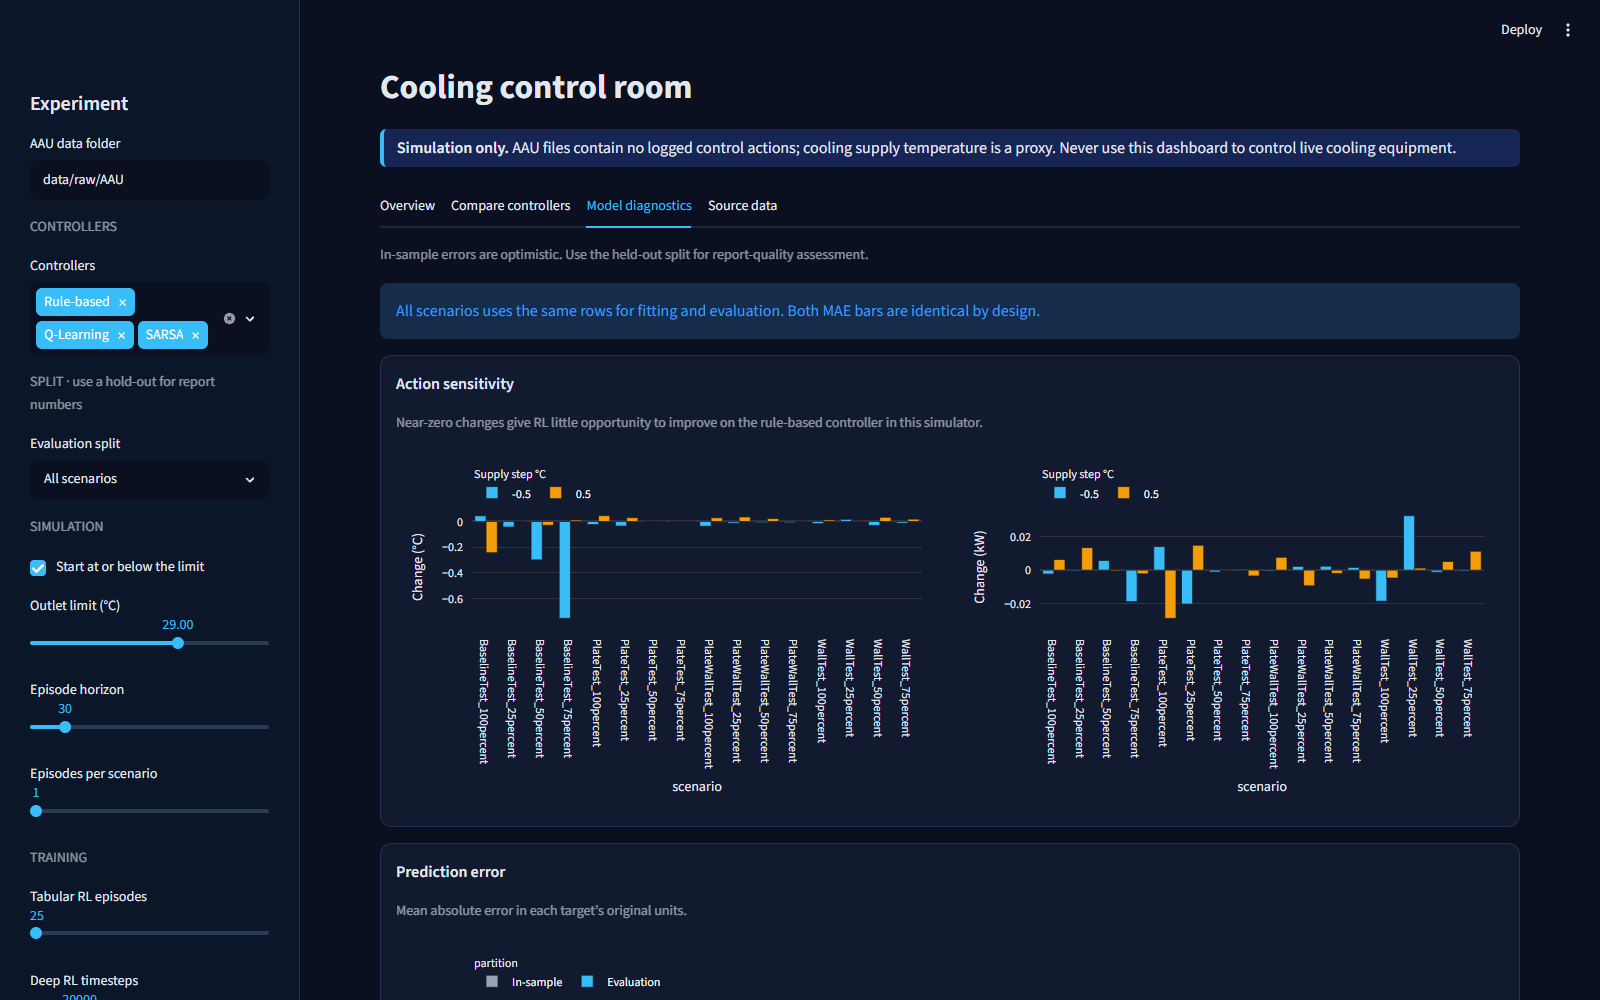
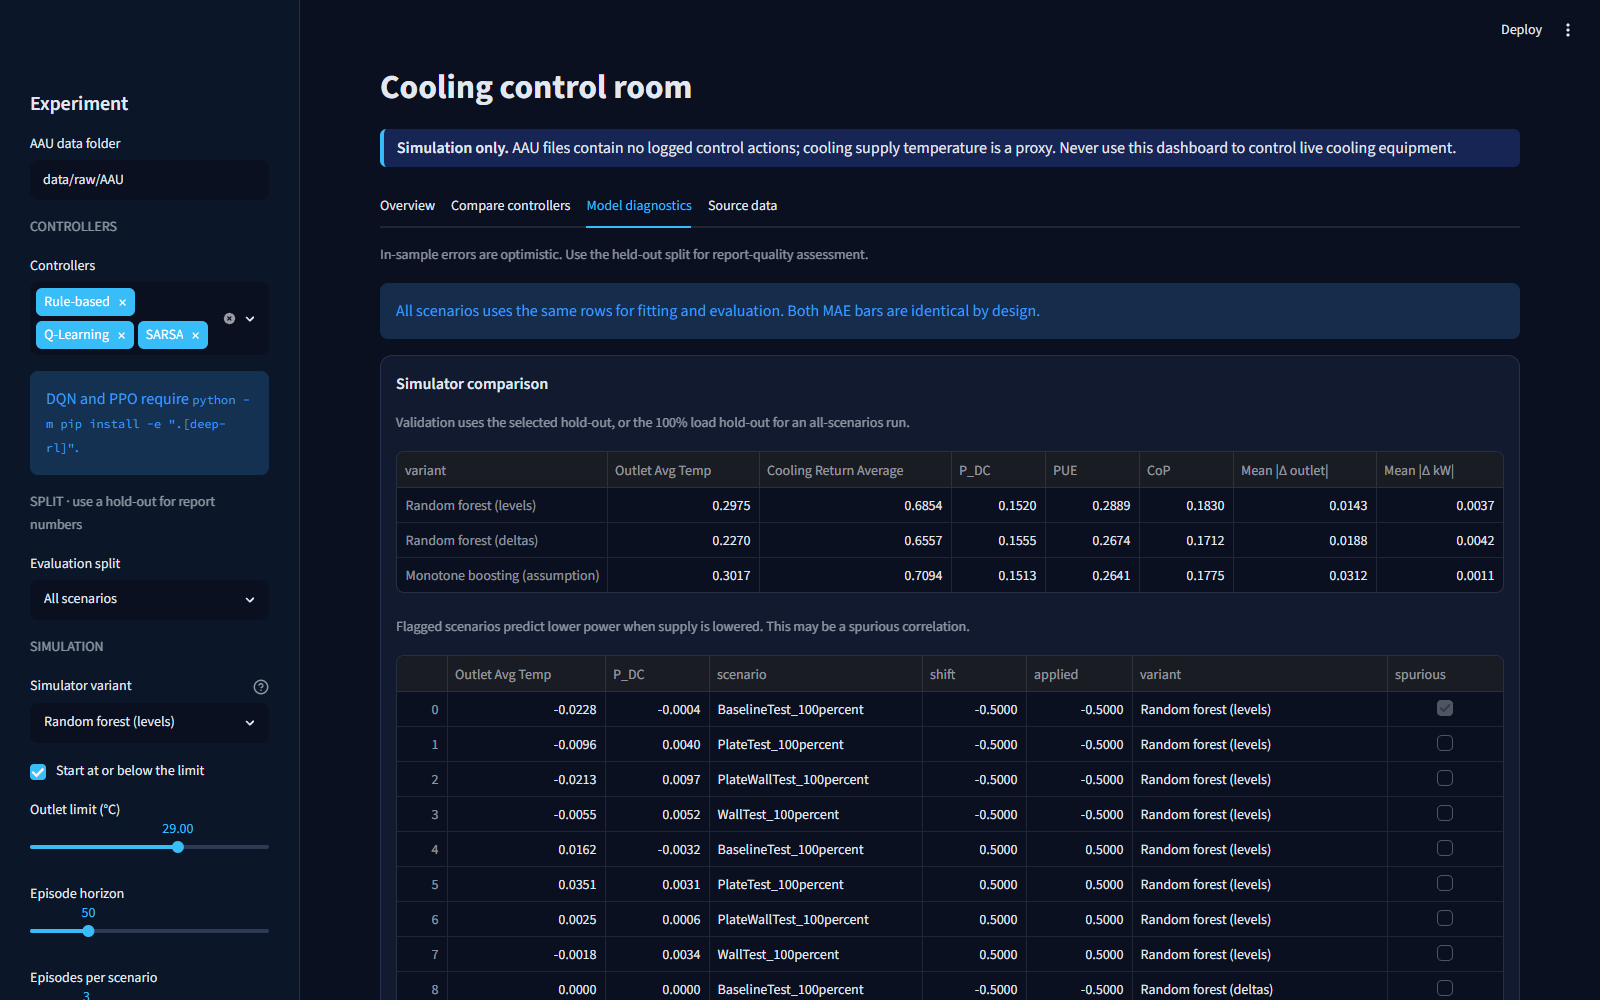
Verify simulator variants on held-out loads and capture dashboard results

diff --git a/scripts/verify_variants.py b/scripts/verify_variants.py
@@ -1,0 +1,89 @@
+"""Reproduce the held-out three-seed comparison in docs/ui/REPORT.md."""
+
+from pathlib import Path
+
+import pandas as pd
+
+from data_centre_rl.data import load_csv_directory
+from data_centre_rl.experiments import action_sensitivity, prepare_experiment, run_controller
+from data_centre_rl.transition_model import VARIANTS
+
+
+def table(frame):
+    rows = [list(frame.columns), ["---"] * len(frame.columns), *frame.astype(str).values.tolist()]
+    return "\n".join("| " + " | ".join(row) + " |" for row in rows)
+
+
+def main():
+    data = load_csv_directory("data/raw/AAU")
+    diagnostics = []
+    results = []
+    for variant in VARIANTS:
+        context = prepare_experiment(
+            data,
+            split_name="Load generalisation: hold out 100%",
+            variant=variant,
+            trees=50,
+            seed=42,
+        )
+        sensitivity = action_sensitivity(context)
+        flags = sensitivity.loc[(sensitivity.applied < 0) & (sensitivity.P_DC < 0), "scenario"]
+        diagnostics.append(
+            {
+                "Simulator": variant,
+                **{key: f"{value:.4f}" for key, value in context.diagnostics.held_out_mae.items()},
+                "Mean abs Δ outlet (°C)": f"{sensitivity['Outlet Avg Temp'].abs().mean():.4f}",
+                "Mean abs Δ power (kW)": f"{sensitivity.P_DC.abs().mean():.4f}",
+                "Power sign flags": ", ".join(flags) or "None",
+            }
+        )
+        for controller in ("Rule-based", "Q-Learning", "SARSA"):
+            seeds = []
+            for seed in (42, 43, 44):
+                run = run_controller(
+                    context,
+                    controller=controller,
+                    outlet_limit=29,
+                    horizon=50,
+                    episodes_per_scenario=3,
+                    tabular_episodes=250,
+                    deep_timesteps=0,
+                    seed=seed,
+                )
+                metrics = run.scenario_metrics
+                seeds.append(
+                    {
+                        "Episodes violated (%)": 100 * metrics.violated.mean(),
+                        "Mean steps": metrics.steps_survived.mean(),
+                        "Switching (%)": 100 * metrics.switching_rate.mean(),
+                        "Power (kW)": metrics.mean_p_dc.mean(),
+                    }
+                )
+            spread = pd.DataFrame(seeds)
+            results.append(
+                {
+                    "Simulator": variant,
+                    "Controller": controller,
+                    **{
+                        key: f"{spread[key].mean():.3f} ± {spread[key].std():.3f}" for key in spread
+                    },
+                }
+            )
+            print(variant, controller, results[-1], flush=True)
+    report = [
+        "# Held-out cooling experiments",
+        "Fit each simulator once (50 trees or boosting iterations, fit seed 42) on all 25%, 50% and 75% load files. Evaluate on the four 100% files. Each controller used the same seeded starts, limit 29 °C, eligible starts, horizon 50 and three episodes per scenario. Tabular policies trained for 250 episodes. Results give mean ± sample standard deviation of three seed-level episode means (42–44).",
+        "## Surrogate validation",
+        "First five numeric columns are held-out next-step MAE in source units. Sensitivity averages absolute responses to both ±0.5 °C supply perturbations around each held-out scenario median. Sign flags identify a predicted power decrease under stronger cooling.",
+        table(pd.DataFrame(diagnostics)),
+        "## Simulated control",
+        "A violation contributes one failed episode regardless of its duration. Duration includes the terminal transition. Switching is the fraction of consecutive action pairs that differ. Power is the episode mean over its observed duration.",
+        table(pd.DataFrame(results)),
+        "The level forest remains the reference. Temperature monotonicity is an imposed physical assumption. Differences between controllers depend on the surrogate, episode duration and seed. Logged AAU data do not identify causal savings.",
+    ]
+
+    Path("docs/ui/REPORT.md").write_text("\n\n".join(report) + "\n", encoding="utf-8")
+
+
+if __name__ == "__main__":
+    main()

diff --git a/scripts/capture_dashboard.py b/scripts/capture_dashboard.py
@@ -45,7 +45,18 @@ try:
         page = browser.new_page(viewport={"width": 1600, "height": 1000}, device_scale_factor=1)
         page.goto(url)
         page.get_by_role("button", name="Run experiment").click(timeout=60000)
-        page.get_by_text("Scenario map", exact=True).wait_for(timeout=120000)
+        page.get_by_text("Scenario map", exact=True).wait_for(timeout=300000)
+        page.get_by_role("combobox", name="Replay scenario").click()
+        page.get_by_role("option", name="PlateTest_100percent · stressed", exact=True).click()
+        page.wait_for_timeout(1000)
+        picker = page.get_by_role("combobox", name="Compare with")
+        picker.click()
+        page.get_by_role("option", name="Q-Learning", exact=True).click()
+        page.wait_for_function(
+            "Array.from(document.querySelectorAll('.js-plotly-plot')).some(plot=>plot.data?.some(trace=>trace.name==='Q-Learning Outlet'))",
+            timeout=60000,
+        )
+        page.locator('[data-testid="stMain"]').evaluate("el => el.scrollTop=0")
         for name in ["Overview", "Compare controllers", "Model diagnostics", "Source data"]:
             page.get_by_role("tab", name=name, exact=True).click()
             for height in [1000, 2800]:

diff --git a/docs/ui/REPORT.md b/docs/ui/REPORT.md
@@ -1,0 +1,33 @@
+# Held-out cooling experiments
+
+Fit each simulator once (50 trees or boosting iterations, fit seed 42) on all 25%, 50% and 75% load files. Evaluate on the four 100% files. Each controller used the same seeded starts, limit 29 °C, eligible starts, horizon 50 and three episodes per scenario. Tabular policies trained for 250 episodes. Results give mean ± sample standard deviation of three seed-level episode means (42–44).
+
+## Surrogate validation
+
+First five numeric columns are held-out next-step MAE in source units. Sensitivity averages absolute responses to both ±0.5 °C supply perturbations around each held-out scenario median. Sign flags identify a predicted power decrease under stronger cooling.
+
+| Simulator | Outlet Avg Temp | Cooling Return Average | P_DC | PUE | CoP | Mean abs Δ outlet (°C) | Mean abs Δ power (kW) | Power sign flags |
+| --- | --- | --- | --- | --- | --- | --- | --- | --- |
+| Random forest (levels) | 0.2975 | 0.6854 | 0.1520 | 0.2889 | 0.1830 | 0.0143 | 0.0037 | BaselineTest_100percent |
+| Random forest (deltas) | 0.2270 | 0.6557 | 0.1555 | 0.2674 | 0.1712 | 0.0188 | 0.0042 | None |
+| Monotone boosting (assumption) | 0.3017 | 0.7094 | 0.1513 | 0.2641 | 0.1775 | 0.0312 | 0.0011 | None |
+
+## Simulated control
+
+A violation contributes one failed episode regardless of its duration. Duration includes the terminal transition. Switching is the fraction of consecutive action pairs that differ. Power is the episode mean over its observed duration.
+
+| Simulator | Controller | Episodes violated (%) | Mean steps | Switching (%) | Power (kW) |
+| --- | --- | --- | --- | --- | --- |
+| Random forest (levels) | Rule-based | 13.889 ± 4.811 | 43.194 ± 2.358 | 1.077 ± 0.708 | 2.090 ± 0.011 |
+| Random forest (levels) | Q-Learning | 22.222 ± 4.811 | 39.472 ± 2.045 | 44.227 ± 8.962 | 2.080 ± 0.001 |
+| Random forest (levels) | SARSA | 22.222 ± 4.811 | 39.472 ± 2.045 | 48.621 ± 4.802 | 2.085 ± 0.007 |
+| Random forest (deltas) | Rule-based | 13.889 ± 4.811 | 43.194 ± 2.358 | 3.741 ± 0.295 | 2.138 ± 0.009 |
+| Random forest (deltas) | Q-Learning | 38.889 ± 12.729 | 37.583 ± 2.554 | 55.671 ± 3.378 | 2.106 ± 0.014 |
+| Random forest (deltas) | SARSA | 30.556 ± 4.811 | 39.972 ± 0.809 | 56.317 ± 4.990 | 2.112 ± 0.006 |
+| Monotone boosting (assumption) | Rule-based | 8.333 ± 0.000 | 45.917 ± 0.000 | 2.778 ± 0.393 | 2.204 ± 0.006 |
+| Monotone boosting (assumption) | Q-Learning | 19.444 ± 4.811 | 43.028 ± 0.268 | 51.077 ± 1.659 | 2.206 ± 0.008 |
+| Monotone boosting (assumption) | SARSA | 30.556 ± 4.811 | 37.917 ± 1.665 | 49.620 ± 1.371 | 2.206 ± 0.012 |
+
+The level forest remains the reference. Temperature monotonicity is an imposed physical assumption. Differences between controllers depend on the surrogate, episode duration and seed. Logged AAU data do not identify causal savings.
+
+On the held-out 100% loads, both tabular controllers switched more frequently and had higher mean violation rates than the rule-based controller in every simulator. The two forests gave the tabular policies lower mean power over their shorter observed episodes. Those averages alone do not establish energy savings at equal safety or duration. The levels model also predicted lower power for increased cooling in Baseline at full load. The delta model had the lowest outlet MAE; monotone boosting had the largest average outlet response but a slightly higher outlet MAE than levels.
